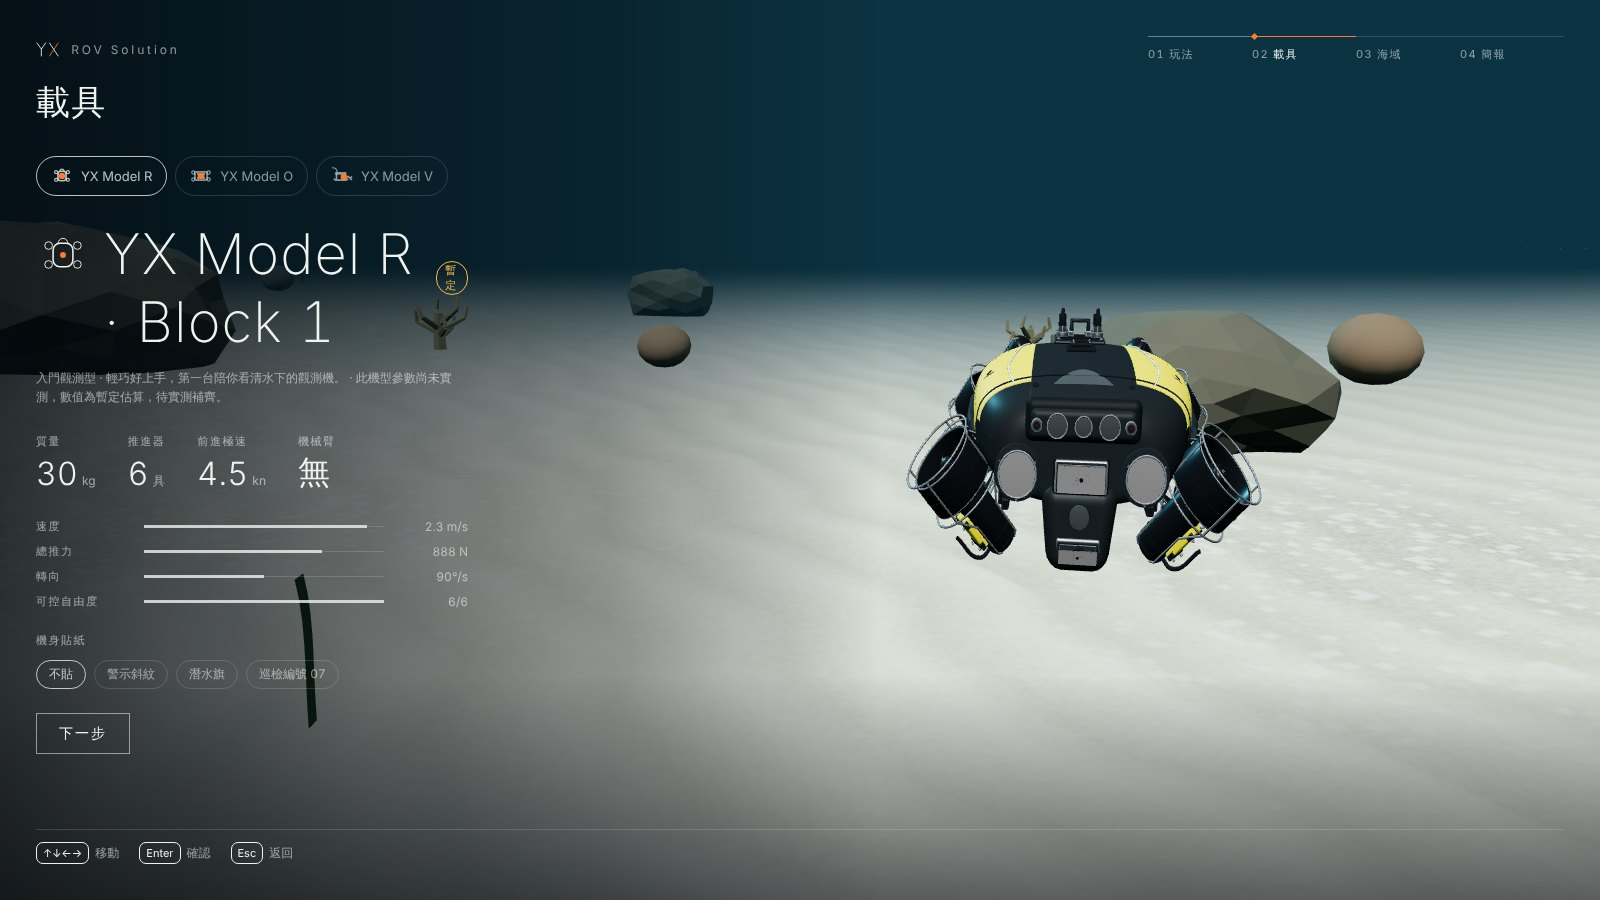
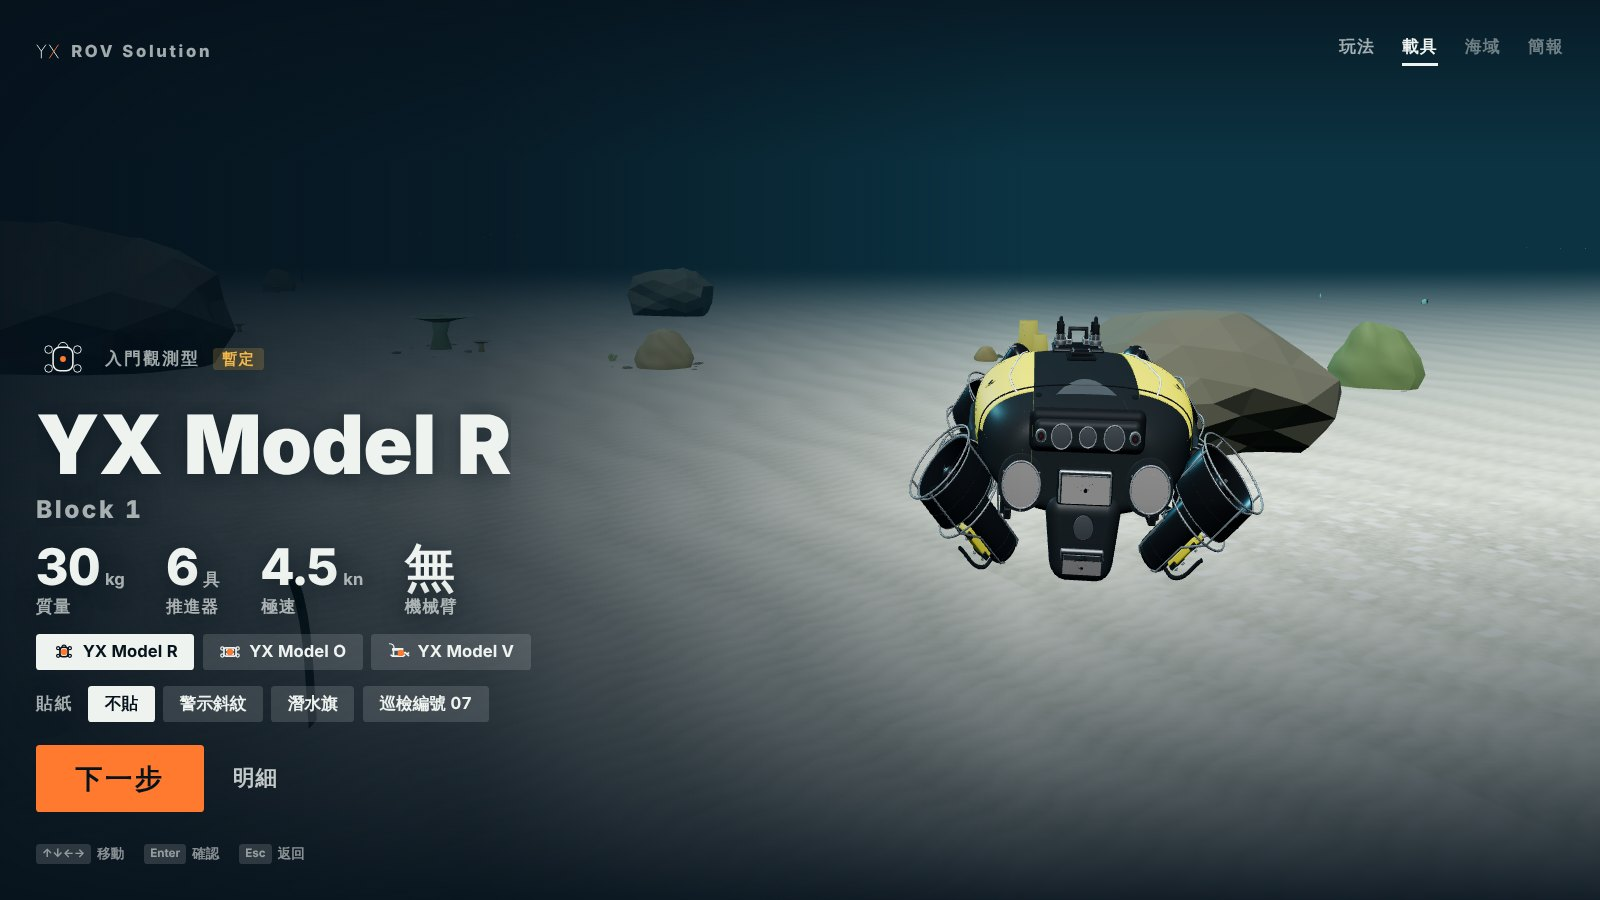
Brand: fleet symbol sits on the hangar hero line in the big-picture layout; refresh in-game shots
Claude-Session: https://claude.ai/code/session_01N551KvQYSQDapLw9TFaBhA

diff --git a/simulator/viewer/brand/brand.css b/simulator/viewer/brand/brand.css
@@ -92,12 +92,11 @@ t='240' filter='url(%23n)'/%3E%3C/svg%3E");
 }
 
 /* ── hangar and briefing ──────────────────────────────────────────────────────────────────────────────────── */
-/* Sits on the first line of the vehicle title, which may wrap to two. */
+/* Sits at the start of the line above the vehicle name. */
 .menu-vehicle-title .brand-fleet-symbol-title {
-  align-self: flex-start;
   width: 54px;
   height: 54px;
-  margin: 8px 2px 0 0;
+  margin: 0 2px 0 0;
   color: var(--brand-ice);
 }
 .menu-chip.brand-chip {

diff --git a/simulator/viewer/menu/screens.js b/simulator/viewer/menu/screens.js
@@ -311,6 +311,7 @@ export function buildHangar(ctx) {
   root.classList.add('bp-screen');
   const hero = createHero({ titleTag: 'h3' });
   hero.title.classList.add('menu-vehicle-name');
+  hero.kicker.classList.add('menu-vehicle-title');
   const role = element('span', '');
   const marker = element('span', 'menu-provisional', STRINGS.provisional);
   marker.title = STRINGS.provisionalHelp;
